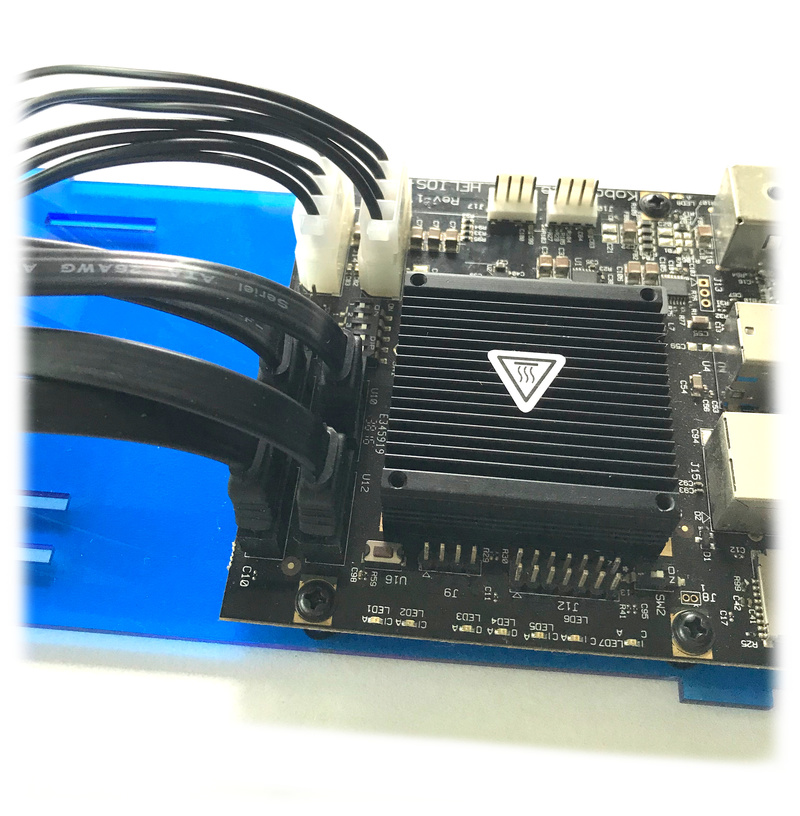
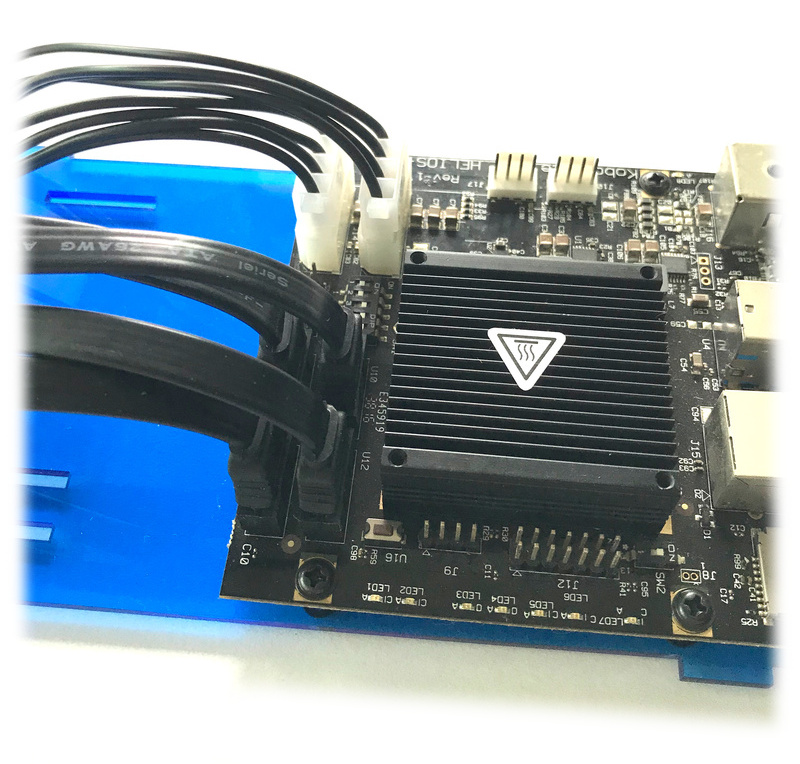
Update Install and Kit Assembly section.

diff --git a/docs/install.md b/docs/install.md
@@ -72,34 +72,34 @@ $ dd bs=4M if=Helios4_Debian_Jessie_4.4.96.img of=/dev/sdX conv=fsync
 
 1. [Download PuTTY](https://www.chiark.greenend.org.uk/~sgtatham/putty/latest.html) and install it on your computer.
 
-2. Setup serial port settings (Speed : **115200** and Flow control : **None**).<br>
-![Putty config](/img/install/putty_config.png)
-
-3. Select **serial** and click 'Open'.<br>
+2. Select connection type **serial**.<br>
 ![Putty connect](/img/install/putty_connect.png)
+
+3. Setup serial port settings (Serial line : **COM1** and Speed : **115200**), then press **'Open'**<br>
+![Putty config](/img/install/putty_config.png)
 
 !!! note
     If you computer already has a serial port then COM1 might not be the correct serial line to connect to Helios4. Check this [link](https://tnp.uservoice.com/knowledgebase/articles/172101-determining-the-com-port-of-a-usb-to-serial-adapte) to learn how to determine the right COM port.
 
+
 ### Under Linux (via CLI)
 
-1. Install and launch minicom
-> $ sudo apt-get install minicom<br>
-> $ sudo minicom -D /dev/ttyUSB0 -b 115200
+1. Install picocom (under Debian/Ubuntu)
+> $ sudo apt-get install picocom<br>
 
-2. Setup serial port settings<br>
-press **CTRL-A O**, then go to menu 'Serial port setup'.
-![Minicom config](/img/install/minicom_config1.png)
+2. Connect to serial with picocom
+> $ sudo picocom -b 115200 /dev/ttyUSB0
 
-3. Disable Hardware Flow control<br>
-press **F**, then press **ESC** twice.
-![Minicom config](/img/install/minicom_config2.png)
+![Picocom](/img/install/picocom.png)
+
+!!! note
+    To exit picocom do **Ctrl-a** then **Ctrl-x**
 
 
 ## **Step 5** - Log in
 
 !!! note
-    You might need to press enter for the login prompt to come up.
+    You might need to press **Enter** for the login prompt to come up.
 
 **Default credential for Debian image**
 
@@ -123,6 +123,8 @@ You will be prompted to change the root password.
 
 ## **Step 6** - Check/Set IP address
 
+### Check IP address
+
 By default Helios4 will try to obtain an IP address via DHCP. To figure out what is the allocated IP address you will need to type the following command in the console.
 
 ```bash
@@ -133,15 +135,37 @@ $ ifconfig eth0
 
 Here the IP address of Helios4 is **10.10.10.1**.
 
-If you wish to manually configure your IP address refer to the following Debian Wiki [Page](https://wiki.debian.org/NetworkConfiguration#Setting_up_an_Ethernet_Interface).
-
 !!! note
     Openmediavault comes with **mDNS** server (Avahi daemon). Therefore if your desktop/laptop runs a mDNS client you can reach the board via the following hostname address : **helios4.local**
+
+### Set IP address
+
+If you wish to manually configure your IP address you can use the **armbian-config** tool.
+
+```bash
+$ sudo armbian-config
+```
+
+![Armbian-config](/img/install/armbian-config.png)
+
+![Armbian-config](/img/install/armbian-config_network.png)
+
+![Armbian-config](/img/install/armbian-config_ip.png)
+
+You will have to reboot for the network settings to take effect.
+```bash
+$ sudo reboot
+```
+
+!!! info
+    You can also refer to the following Debian Wiki [Page](https://wiki.debian.org/NetworkConfiguration#Setting_up_an_Ethernet_Interface) for advanced network settings.
+
+
 
 ## **What to do next ?**
 
 **If you have installed an OpenMediaVault image, refer to the [OMV page](/omv) for further instructions.**
 
-Otherwise you can now connect by SSH to your Helios4 to carry on with your manual configuration.
+Otherwise you can now connect by SSH to your Helios4 to carry on with your configuration.
 
 ![SSH Login](/img/install/ssh_login.png)

diff --git a/docs/kit.md b/docs/kit.md
@@ -162,6 +162,7 @@
 > **Connect the fan cables as shown below.**
 
 ![Kit Assembly](/img/kit/assembly_pic35.jpg)
+![Kit Assembly](/img/kit/assembly_pic35b.jpg)
 
 ## **Step 6** - Casing assembly 1/2
 
